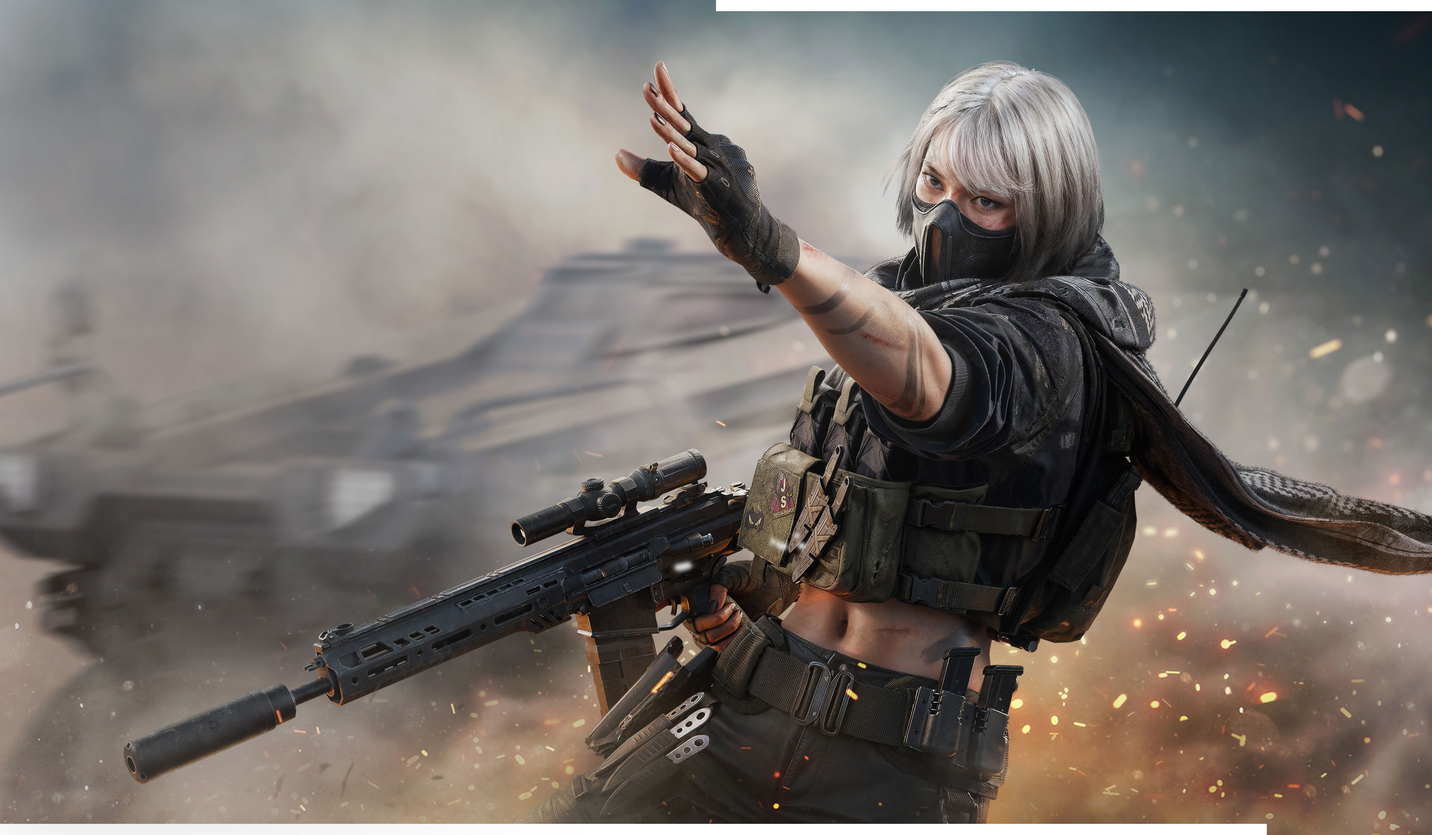
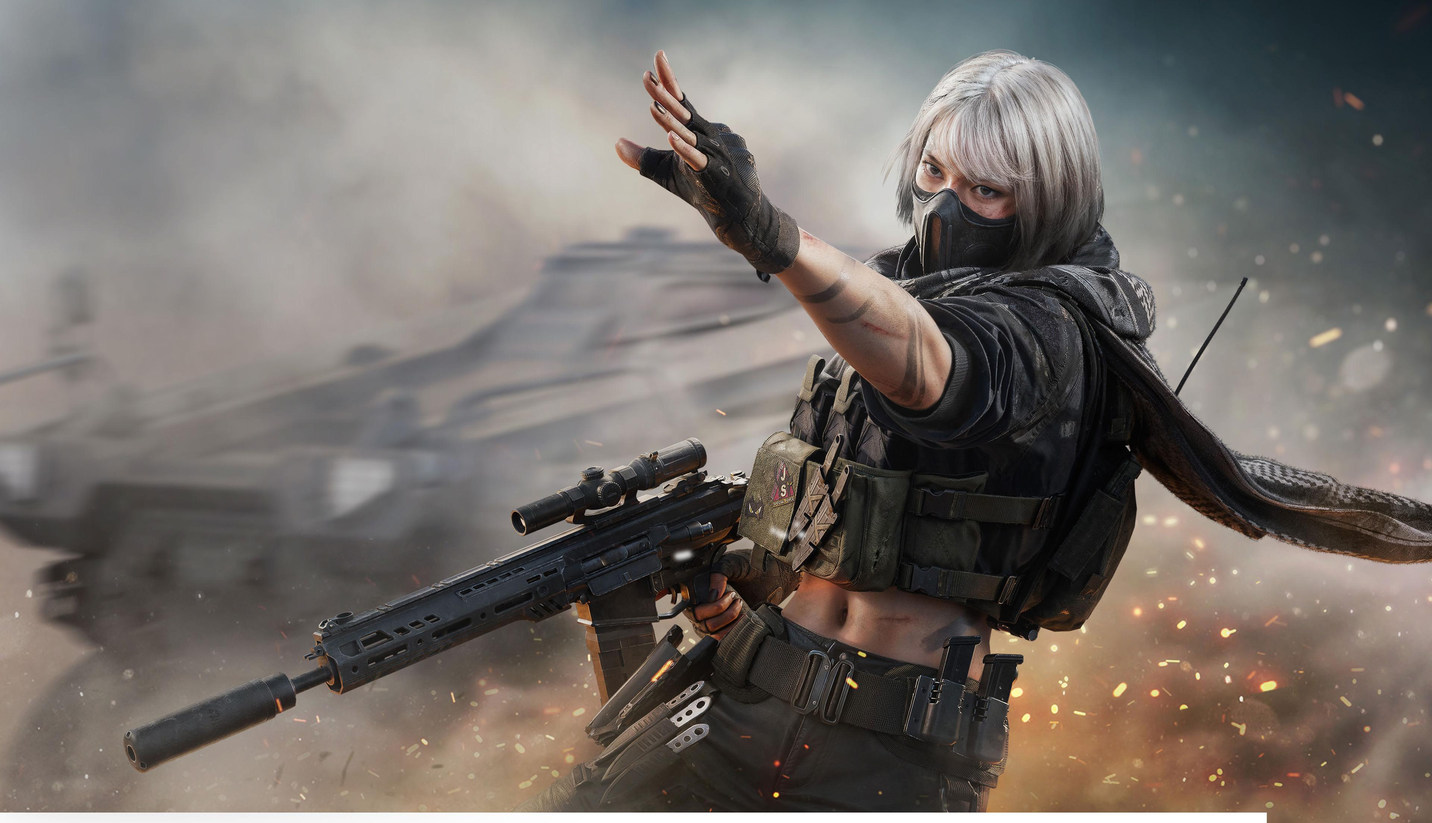
feat: 开发三角洲游戏版本计划与设计

diff --git a/crop_image.py b/crop_image.py
@@ -1,0 +1,28 @@
+from PIL import Image, ImageChops
+import os
+
+path = "/workspace/image/delta_ops/Hackclaw_official.jpg"
+
+try:
+    img = Image.open(path)
+    
+    # Create a white background image of the same size
+    bg = Image.new(img.mode, img.size, img.getpixel((0,0)))
+    
+    # Calculate the difference between the image and the background
+    diff = ImageChops.difference(img, bg)
+    
+    # Find the bounding box of the non-background area
+    diff = ImageChops.add(diff, diff, 2.0, -100)
+    bbox = diff.getbbox()
+    
+    if bbox:
+        # Crop the image to the bounding box
+        cropped_img = img.crop(bbox)
+        cropped_img.save(path)
+        print(f"Successfully cropped auto-detected border. New size: {cropped_img.size}")
+    else:
+        print("Could not detect border.")
+        
+except Exception as e:
+    print(f"Error: {e}")
